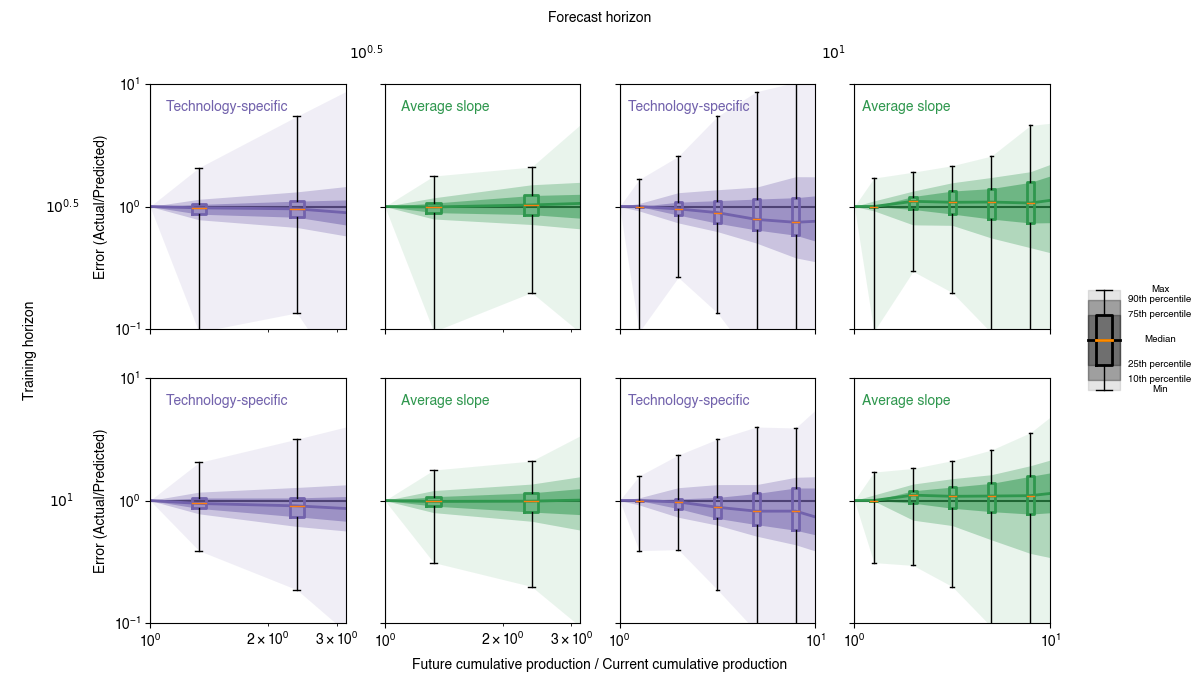
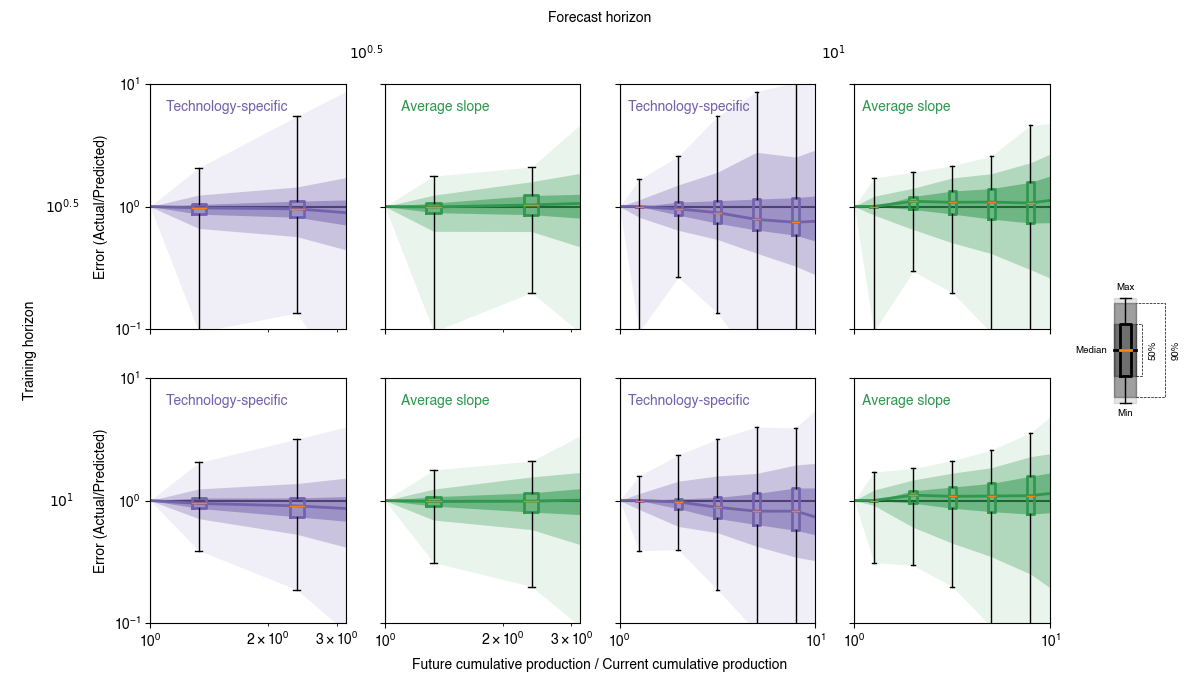
updating figures method 1 and 2

diff --git a/plottingFunctions.py b/plottingFunctions.py
@@ -24,8 +24,9 @@ def scatterFigure(LR_cal, LR_val, length, title):
                       norm = norm,
                       cmap = cmap,
                       alpha = 0.7,
-                      lw = 0,
-                      s = 50)
+                      lw = 0.2,
+                      s = 50,
+                      edgecolor='k')
     
     # compute R2
     if len(LR_cal) > 2:
@@ -441,33 +442,34 @@ def plotForecastErrorGrid(fErrsTech, fErrsAvg, Ranges,
     ax[1][2].minorticks_off()
     ax[1][3].minorticks_off()
     
-    axes1=fig.add_axes([0.9,0.415,0.08,0.2])
+    axes1=fig.add_axes([0.9,0.35,0.08,0.3])
     axes1.plot([-0.5,1.5],[0.5,0.5],'k', lw=2)
     axes1.fill_between([-0.5,1.5],[0.25,0.25],[0.75,0.75], 
                        color='k', alpha=0.3)
-    axes1.fill_between([-.5,1.5],[0.1,0.1],[0.9,0.9], 
+    axes1.fill_between([-.5,1.5],[0.05,0.05],[0.95,0.95], 
                        color='k', alpha=0.3)
     axes1.fill_between([-.5,1.5],[0,0],[1.0,1.0], 
                        color='k', alpha=0.1)
-    axes1.annotate('10th percentile', 
-                   xy=(4.0, 0.1), xycoords='data', 
-                   ha='center', va='center', fontsize=7)
-    axes1.annotate('25th percentile', 
-                   xy=(4.0, 0.25), xycoords='data', 
-                   ha='center', va='center', fontsize=7)
-    axes1.annotate('Median', 
-                   xy=(4.0, 0.5), xycoords='data', 
-                   ha='center', va='center', fontsize=7)
-    axes1.annotate('75th percentile', 
-                   xy=(4.0, 0.75), xycoords='data', 
-                   ha='center', va='center', fontsize=7)
-    axes1.annotate('90th percentile', 
-                   xy=(4.0, 0.9), xycoords='data', 
-                   ha='center', va='center', fontsize=7)
-    axes1.annotate('Max', xy=(4.0, 1.0), 
+    axes1.plot([1.5,2,2,1.5],[0.25,0.25,0.75,0.75], color='k',
+               linestyle='--',lw=0.5)
+    axes1.plot([1.5,4,4,1.5],[0.05,0.05,0.95,0.95], color='k',
+               linestyle='--',lw=0.5)
+
+    axes1.annotate('50%', xy=(3, 0.5), 
+                   xycoords='data', ha='center', 
+                   va='center', fontsize=7,
+                   rotation=90)
+    axes1.annotate('90%', xy=(5, 0.5), 
+                   xycoords='data', ha='center', 
+                   va='center', fontsize=7,
+                   rotation=90)
+    axes1.annotate('Median', xy=(-2.5, 0.5), 
                    xycoords='data', ha='center', 
                    va='center', fontsize=7)
-    axes1.annotate('Min', xy=(4.0, 0.0), 
+    axes1.annotate('Max', xy=(0.5, 1.1), 
+                   xycoords='data', ha='center', 
+                   va='center', fontsize=7)
+    axes1.annotate('Min', xy=(0.5, -0.1), 
                    xycoords='data', ha='center', 
                    va='center', fontsize=7)
 
@@ -479,8 +481,8 @@ def plotForecastErrorGrid(fErrsTech, fErrsAvg, Ranges,
     axes1.plot([0.5,0.5],[0,0.25], color='k', lw=1)
     axes1.plot([0.5,0.5],[0.75,1], color='k', lw=1)
 
-    axes1.set_xlim(-1,5)
-    axes1.set_ylim(-0.2,1.2)
+    axes1.set_xlim(-3.5,5)
+    axes1.set_ylim(-0.5,1.5)
     axes1.set_xticks([])
     axes1.set_yticks([])
     axes1.axis('off')
@@ -547,9 +549,6 @@ def plotForecastErrors(dferrTech, dferrAvg,
     plotBoxplotsArray(forecastIntAxis[1:-1], statsAvg[1:-1], 
                         color = cmapg(0.7), ax = ax[1])
     
-    ylabs = ax2b.get_yticklabels()
-    print(ylabs)
-
     ax2b.yaxis.set_major_locator(
         matplotlib.ticker.MaxNLocator(integer=True))
     ax2b.minorticks_off()
@@ -631,33 +630,32 @@ def plotForecastErrors(dferrTech, dferrAvg,
                             ]
         fig.legend(handles=legend_elements, loc='lower center', ncol=2)      
 
-    axes1=fig.add_axes([0.825,0.415,0.15,0.2])
-    axes1.plot([-1,2],[0.5,0.5],'k', lw=2)
-    axes1.fill_between([-1,2],[0.25,0.25],[0.75,0.75], 
+    axes1=fig.add_axes([0.85,0.35,0.125,0.3])
+    axes1.plot([-0.5,1.5],[0.5,0.5],'k', lw=2)
+    axes1.fill_between([-0.5,1.5],[0.25,0.25],[0.75,0.75], 
                        color='k', alpha=0.3)
-    axes1.fill_between([-1,2],[0.1,0.1],[0.9,0.9], 
+    axes1.fill_between([-.5,1.5],[0.05,0.05],[0.95,0.95], 
                        color='k', alpha=0.3)
-    axes1.fill_between([-1,2],[0,0],[1.0,1.0], 
+    axes1.fill_between([-.5,1.5],[0,0],[1.0,1.0], 
                        color='k', alpha=0.1)
-    axes1.annotate('10th percentile', 
-                   xy=(4.0, 0.1), xycoords='data', 
-                   ha='center', va='center', fontsize=7)
-    axes1.annotate('25th percentile', 
-                   xy=(4.0, 0.25), xycoords='data', 
-                   ha='center', va='center', fontsize=7)
-    axes1.annotate('Median', 
-                   xy=(4.0, 0.5), xycoords='data', 
-                   ha='center', va='center', fontsize=7)
-    axes1.annotate('75th percentile', 
-                   xy=(4.0, 0.75), xycoords='data', 
-                   ha='center', va='center', fontsize=7)
-    axes1.annotate('90th percentile', 
-                   xy=(4.0, 0.9), xycoords='data', 
-                   ha='center', va='center', fontsize=7)
-    axes1.annotate('Max', xy=(4.0, 1.0), 
+    axes1.plot([1.5,2,2,1.5],[0.25,0.25,0.75,0.75], color='k',
+               linestyle='--',lw=0.5)
+    axes1.plot([1.5,4,4,1.5],[0.05,0.05,0.95,0.95], color='k',
+               linestyle='--',lw=0.5)
+
+    axes1.annotate('50%', xy=(3, 0.5), 
                    xycoords='data', ha='center', 
                    va='center', fontsize=7)
-    axes1.annotate('Min', xy=(4.0, 0.0), 
+    axes1.annotate('90%', xy=(5, 0.5), 
+                   xycoords='data', ha='center', 
+                   va='center', fontsize=7)
+    axes1.annotate('Median', xy=(-2.5, 0.5), 
+                   xycoords='data', ha='center', 
+                   va='center', fontsize=7)
+    axes1.annotate('Max', xy=(0.5, 1.1), 
+                   xycoords='data', ha='center', 
+                   va='center', fontsize=7)
+    axes1.annotate('Min', xy=(0.5, -0.1), 
                    xycoords='data', ha='center', 
                    va='center', fontsize=7)
 
@@ -669,8 +667,8 @@ def plotForecastErrors(dferrTech, dferrAvg,
     axes1.plot([0.5,0.5],[0,0.25], color='k', lw=1)
     axes1.plot([0.5,0.5],[0.75,1], color='k', lw=1)
 
-    axes1.set_xlim(-1,5)
-    axes1.set_ylim(-0.2,1.2)
+    axes1.set_xlim(-3.5,5)
+    axes1.set_ylim(-0.5,1.5)
     axes1.set_xticks([])
     axes1.set_yticks([])
     axes1.axis('off')

diff --git a/analysisFunctions.py b/analysisFunctions.py
@@ -128,6 +128,7 @@ def computeRegPredError(df, fraction, points):
     uc, cpCal, cpVal, ucpred, \
         errpred, ucpred2, errpred2 = [], [], [], [], \
                                         [], [], []
+    slopeErr1, slopeErr2 = [], []
 
     for tech in df['Tech'].unique():
 
@@ -177,10 +178,14 @@ def computeRegPredError(df, fraction, points):
         # (error is maintained in log space)
         errpred2.append(np.log10(ucpred2[-1][1:]) - \
             np.log10(sel['Unit cost'].values[len(x_cal):]))
+        
+        slopeErr1.append(result_val.params[1] - slope)
+        slopeErr2.append(result_val.params[1] - slopeall)
 
     return LR_cal, LR_val, slopesall, \
             uc, cpCal, cpVal, \
-            ucpred, errpred, ucpred2, errpred2
+            ucpred, errpred, ucpred2, errpred2, \
+            slopeErr1, slopeErr2
 
 # compute R2 values using Monte Carlo sampling with replacement
 def computeR2MonteCarlo(LR_cal, LR_val, techsList, iter=1000):
@@ -279,9 +284,9 @@ def computeErrors(df, trainingOrdMag, forecastOrdMag):
 
                     #### NEED TO DISCUSS THESE LINES 
                     
-                    pred =  y[i] + slope * (x[i:M+1] - x[i])
+                    # pred =  y[i] + slope * (x[i:M+1] - x[i])
                     
-                    # pred =  result.predict(sm.add_constant(x[i:M+1]))
+                    pred =  result.predict(sm.add_constant(x[i:M+1]))
 
                     pred2 =  y[i] + slopeall * (x[i:M+1] - x[i])
                     
@@ -321,7 +326,7 @@ def builtBreakCenteredArrays(ordOfMag, npoints, training=False):
 
 
 # def compute Technology weighted percentiles
-def computeTechWeightedPercentiles(df, percentiles=[0,10,25,50,75,90,100]):
+def computeTechWeightedPercentiles(df, percentiles=[0,5,25,50,75,95,100]):
 
     df = df.copy()
     # count data points per technology and assign inverse weight
@@ -345,7 +350,7 @@ def computeTechWeightedPercentiles(df, percentiles=[0,10,25,50,75,90,100]):
 
 # compute percentiles of forecast errors at specified points
 def computePercentilesArray(dferr, breaks,
-                             percentiles=[0,10,25,50,75,90,100], 
+                             percentiles=[0,5,25,50,75,95,100], 
                              training=False):
     
     # initialize lists to count points, 
@@ -437,6 +442,8 @@ def dataToPercentilesArray(df, ordOfMag,
     
     return pct, breaks, centered, \
             countPoints, countTechs, stats
+
+# def computeSlopeErrors(df, fraction, points)
 
 def performTPairedTest(errpred, errpred2):
     # compute RMSE and difference in RMSE

diff --git a/Method1.py b/Method1.py
@@ -28,8 +28,23 @@ sectorTech = [analysisFunctions\
 # compute regression model and predicition errors for each technology
 LR_cal, LR_val, slopesall, \
     uc, cpCal, cpVal, \
-    ucpred, errpred, ucpred2, errpred2 = \
+    ucpred, errpred, ucpred2, errpred2, \
+    slopeErr, slopeErr2 = \
         analysisFunctions.computeRegPredError(df, fraction, points)
+
+import seaborn
+fig, ax = plt.subplots(1,1, sharex=True, sharey=True)
+slopeErrDf = pd.DataFrame({'slopeErr':[*slopeErr,*slopeErr2],
+                            'Method':[*['Tech' for x in slopeErr],
+                                      *['Average' for x in slopeErr2]]})
+seaborn.violinplot(slopeErrDf, hue='Method',
+                   split=True, ax=ax, color='purple',
+                   inner='stick')
+# seaborn.violinplot(slopeErr2, x=1, ax=ax, color='green')
+print(sum(np.abs(slopeErr)))
+print(sum(np.abs(slopeErr2)))
+ax.set_xlim(-3,3)
+plt.show()
 
 print("Average Wright's exponent: ",np.mean(slopesall), 
     "\nAverage percentage cost reduction" + \

diff --git a/Method2.py b/Method2.py
@@ -46,11 +46,11 @@ for tOrd in trOrds:
         #       dferrTech['Tech'].nunique())
         # print(trainErr['Tech'].unique())
 
-        # # plot forecast errors (lines and boxplots)
+        # # # plot forecast errors (lines and boxplots)
         plottingFunctions.plotForecastErrors(dferrTech, dferrAvg, 
                                              fOrd, samplingPoints,
         # for training errors to be included, uncomment the following line
-                                            #  trainErr, tOrd
+                                             trainErr, tOrd
                                              )
         
         # store data in lists for later use
